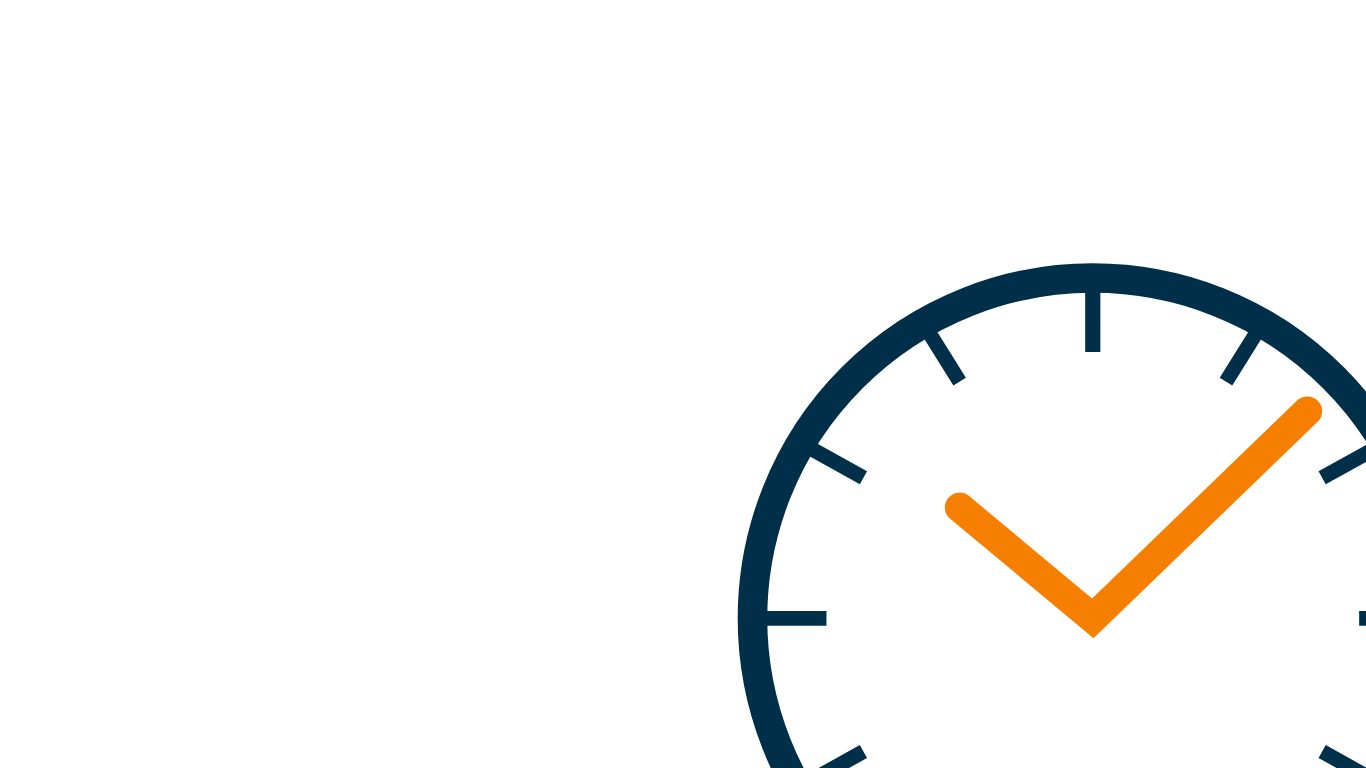
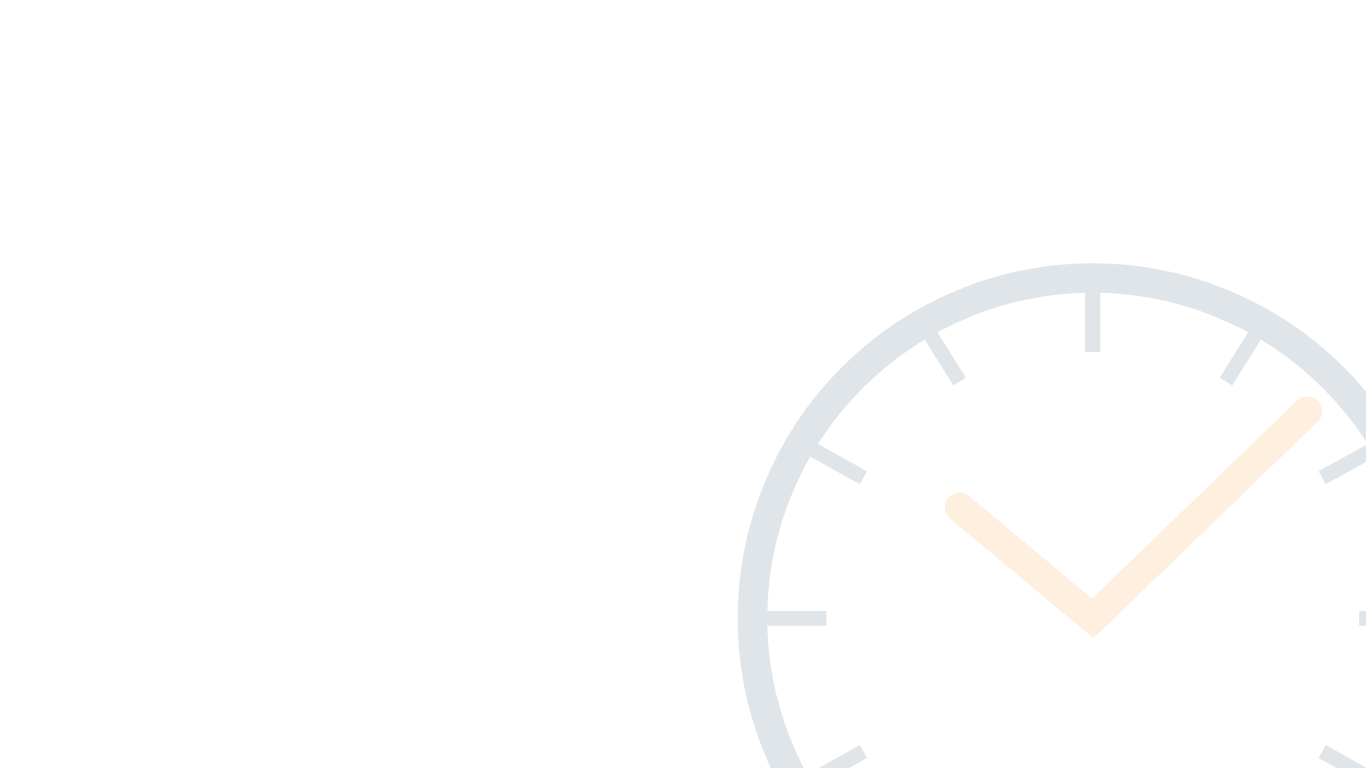
added background for aesthetic reasons

Changed region(s): [[0.5227, 0.3438, 1.0, 1.0], [0.9531, 0.9688, 1.0, 1.0], [0.9839, 0.7812, 1.0, 0.8125]]

diff --git a/app/templates/base.html b/app/templates/base.html
@@ -20,7 +20,10 @@
     <link rel="stylesheet" href="https://cdn.jsdelivr.net/npm/bootstrap-icons@1.11.3/font/bootstrap-icons.css"
         integrity="sha384-tViUnnbYAV00FLIhhi3v/dWt3Jxw4gZQcNoSCxCIFNJVCx7/D55/wXsrNIRANwdD" crossorigin="anonymous">
     <link rel="stylesheet" href="{{ url_for('static', filename='css/custom.css') }}">
+    <link rel="stylesheet" href="{{ url_for('static', filename='css/backgroundcss.css') }}">
     <link rel="icon" type="image/svg" href="{{ url_for('static', filename='images/logo_icon.svg') }}">
+</head>
+
 
 
 </head>

diff --git a/app/static/css/backgroundcss.css b/app/static/css/backgroundcss.css
@@ -1,0 +1,6 @@
+body {
+    background-image: url('/static/images/bg.png');
+    background-size: cover;      /* Make it cover the whole viewport */
+    background-position: center; /* Center the image */
+    background-repeat: no-repeat;
+}
